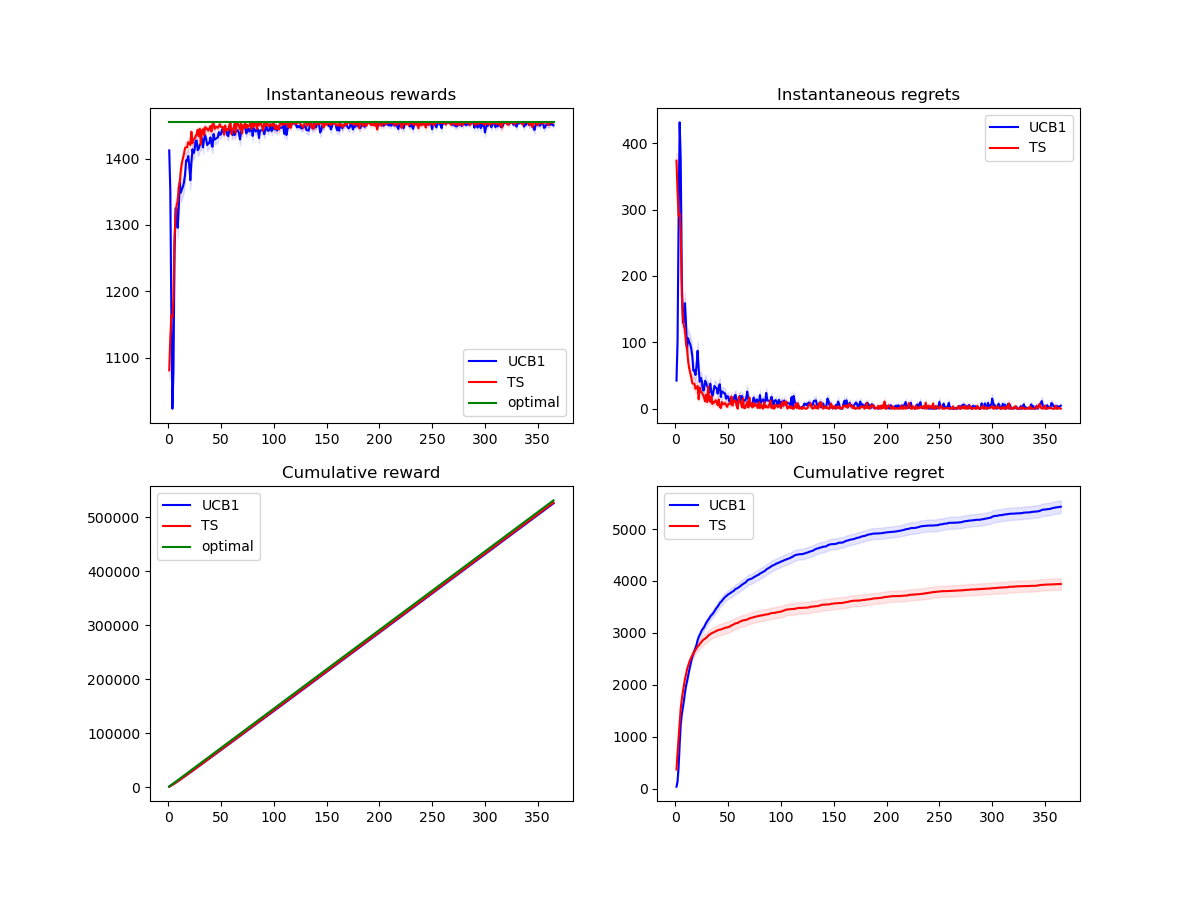
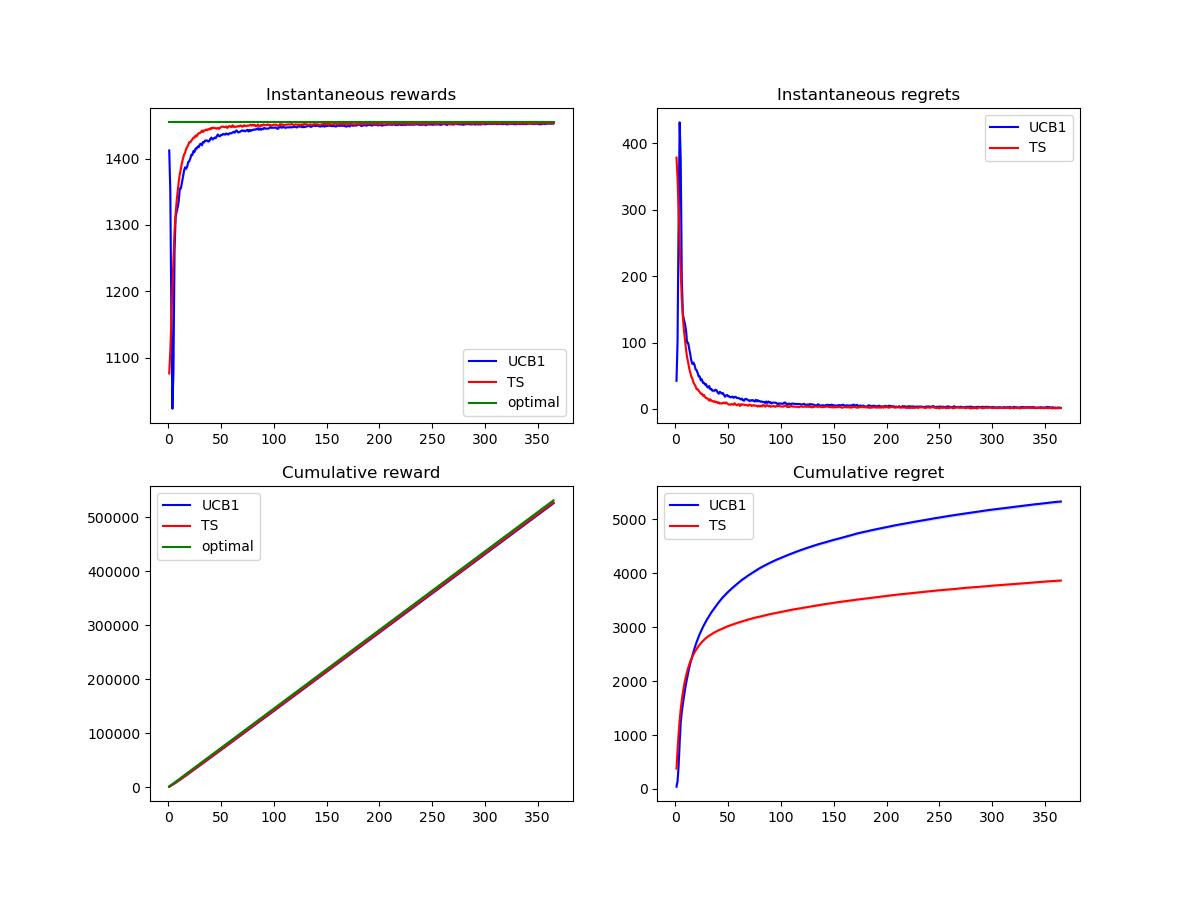
Added some plots

diff --git a/OLA/Step1Experiment.py b/OLA/Step1Experiment.py
@@ -1,5 +1,3 @@
-import os
-
 import numpy as np
 from typing import Union
 
@@ -8,7 +6,6 @@ from OLA.base_learners import Step1UCBLearner
 from OLA.base_learners import Step1TSLearner
 import new_environment_properties as ep
 from OLA.simulators import simulate_single_class, plot_multiple_single_class_results
-from OLA.simulators import plot_single_class_sim_result
 
 
 def env_init_step1(rng: np.random.Generator):
@@ -21,41 +18,24 @@ def env_init_step1(rng: np.random.Generator):
     return SingleClassEnvironment(N, en, C, ec, A, ep.get_production_cost(), rng)
 
 
-class WorstArmCounter:
-    def __init__(self, worst_arm):
-        self.worst_arm = worst_arm
-        self.count = 0
-
-    def count_worst_arm(self, learner: Union[Step1TSLearner, Step1TSLearner]):
-        ps = np.array(learner.history.ps)
-        mask = ps == self.worst_arm
-        self.count += np.sum(mask)
-
-
 if __name__ == '__main__':
     seed = 2000
     bids = ep.get_bids()
     prices = ep.get_prices()
     rng = np.random.default_rng(seed=seed)
     T = 365
-    n_runs = 100
+    n_runs = 3000
     opt_rewards = SingleClassEnvironmentHistory(env_init_step1(rng)).clairvoyant_rewards(bids, prices, T)
-    worst_arm_count_ucb = WorstArmCounter(prices[3])
     sim_object_ucb1 = simulate_single_class(lambda: env_init_step1(rng),
                                             bids, prices,
                                             lambda env, bids, prices: Step1UCBLearner(env, bids, prices, 0.4),
-                                            T, n_runs,
-                                            lambda learner: worst_arm_count_ucb.count_worst_arm(learner))
+                                            T, n_runs)
 
-    worst_arm_count_ts = WorstArmCounter(prices[-1])
     sim_object_ts = simulate_single_class(lambda: env_init_step1(rng),
                                           bids, prices,
                                           lambda env, bids, prices: Step1TSLearner(env, bids, prices, rng),
-                                          T, n_runs,
-                                          lambda learner: worst_arm_count_ts.count_worst_arm(learner))
+                                          T, n_runs)
 
-    print("UCB - number of times (on average) the worst arm is played: ", worst_arm_count_ucb.count / n_runs)
-    print("TS - number of times (on average) the worst arm is played: ", worst_arm_count_ts.count / n_runs)
     plot_multiple_single_class_results([sim_object_ucb1, sim_object_ts], opt_rewards, ['UCB1', 'TS'],
                                        True, '../Plots/step1.png')
 

diff --git a/OLA/Step2Experiment.py b/OLA/Step2Experiment.py
@@ -48,7 +48,7 @@ def store_gp_mean_estimation(learner: Union[Step2TSLearner, Step2UCBLearner], n_
     c_estimations.append(c_est.mu_vector)
 
 
-def plot_gp_mean_estimations(n_estimations: list, c_estimations: list):
+def plot_gp_mean_estimations(n_estimations: list, c_estimations: list, file_name=None):
     n_estimations = np.array(n_estimations)
     n_estimations = np.mean(n_estimations, axis=0)
     c_estimations = np.array(c_estimations)
@@ -64,6 +64,12 @@ def plot_gp_mean_estimations(n_estimations: list, c_estimations: list):
     axes[1].plot(ep.get_bids(), ep.click_cumulative_cost(ep.get_bids()), label="true value")
     axes[1].set_title("Advertising costs GP estimation")
     axes[1].legend()
+
+    if file_name is not None:
+        try:
+            plt.savefig(file_name)
+        except:
+            print("Couldn't save plot on file", file_name)
 
     plt.show()
 
@@ -89,7 +95,7 @@ if __name__ == '__main__':
     T = 365
     opt_rewards = SingleClassEnvironmentHistory(env_init_step2(rng)).clairvoyant_rewards(bids, prices, T)
 
-    n_runs = 5
+    n_runs = 100
     click_estimations = []
     costs_estimations = []
     print("----GP-UCB----")
@@ -99,7 +105,7 @@ if __name__ == '__main__':
                                                                                                     click_estimations,
                                                                                                     costs_estimations))
     print("Elapsed time: ", (datetime.now() - start_time).total_seconds())
-    plot_gp_mean_estimations(click_estimations, costs_estimations)
+    plot_gp_mean_estimations(click_estimations, costs_estimations, '../Plots/step2_ucb_curves.png')
 
     click_estimations = []
     costs_estimations = []
@@ -110,7 +116,7 @@ if __name__ == '__main__':
                                                                                                  click_estimations,
                                                                                                  costs_estimations))
     print("Elapsed time: ", (datetime.now() - start_time).total_seconds())
-    plot_gp_mean_estimations(click_estimations, costs_estimations)
+    plot_gp_mean_estimations(click_estimations, costs_estimations, '../Plots/step2_ts_curves.png')
 
     plot_multiple_single_class_results([sim_object_gpucb, sim_object_ts], opt_rewards,
-                                       ['GP-UCB', 'GP-TS'], True)
+                                       ['GP-UCB', 'GP-TS'], True, '../Plots/step2.png')

diff --git a/OLA/environments_prototyping.py b/OLA/environments_prototyping.py
@@ -24,18 +24,17 @@ for c in range(3):
 
     axes[1][c].plot(xs, ep.daily_clicks_curve_multiclass(xs, c))
     # scatter points with noise
-    axes[1][c].scatter(xs, ep.daily_clicks_curve_multiclass(xs, c) + ep.daily_click_curve_noise(rng, xs.shape[0]))
+    # axes[1][c].scatter(xs, ep.daily_clicks_curve_multiclass(xs, c) + ep.daily_click_curve_noise(rng, xs.shape[0]))
     axes[1][c].set_title('Daily click class %d' % c)
 
     axes[2][c].plot(xs, ep.click_cumulative_cost_multiclass(xs, c))
-    axes[2][c].scatter(xs,
-                       ep.click_cumulative_cost_multiclass(xs, c) + ep.advertising_costs_curve_noise(rng, xs.shape[0]))
+    # axes[2][c].scatter(xs,
+    #                    ep.click_cumulative_cost_multiclass(xs, c) + ep.advertising_costs_curve_noise(rng, xs.shape[0]))
     # plot the theoretical limit: bid * clicks
     # axes[2][c].plot(xs, ep.daily_clicks_curve_multiclass(xs, c) * xs)
-    #axes[2][c].set_title('Advertising costs class %d' % c)
+    # axes[2][c].set_title('Advertising costs class %d' % c)
 # Obs: it's the environment's duty to put a threshold on the noisy clicks and costs to make sure that they don't go
 # below 0
-# obs: the "floor" in the number of clicks result in an "erratic" curve
 plt.show()
 
 """

diff --git a/OLA/analyze_bad_peak_step_1.py b/OLA/analyze_bad_peak_step_1.py
@@ -5,21 +5,12 @@ import new_environment_properties as ep
 import optimization_utilities as op
 
 """
-When you run UCB in step 1, the first time the arm number 5 is played
-the regret is very large
-
-That arm is very bad: alpha*margin=8
-The best reward (with the optimal bid) that it can provide is 600,
-while the second-worst arm provides 1200
-
-Consider that UCB doesn't know the true alpha (never played the arm),
-so it can't correctly optimize the bid and chooses a worst one:
-UCB1 necessarily achieves a large regret that day
-
-Obs: the two curves plotted here have the same "shape", but different scale
-This comes from the opt procedure: first optimize the price, then the bid
-So if a point A is higher then B in the first graph, it must be the same in the second graph
-otherwise the opt procedure would be incorrect
+This analysis shows the curve that step 1 is optimizing
+and the best reward that it can obtain with each price.
+Observe that the best reward is achieved when both:
+- the best price is chosen
+- the estimation of the corresponding alpha is good enough
+This is because the choice of the bid depend on the choice of the price and the estimated alpha
 
 """
 

diff --git a/OLA/Step3Experiment.py b/OLA/Step3Experiment.py
@@ -53,7 +53,7 @@ if __name__ == '__main__':
 
     T = 365
     opt_rewards = SingleClassEnvironmentHistory(env_init_step3(rng)).clairvoyant_rewards(bids, prices, T)
-    n_runs = 5
+    n_runs = 100
 
     print("----UCB----")
     start_time = datetime.now()
@@ -68,4 +68,4 @@ if __name__ == '__main__':
     # plot_single_class_sim_result(sim_object_ts, opt_rewards)
 
     plot_multiple_single_class_results([sim_object_gpucb, sim_object_ts], opt_rewards,
-                                       ['GP-UCB1', 'GP-TS'], True)
+                                       ['GP-UCB1', 'GP-TS'], True, '../Plots/step3.png')
